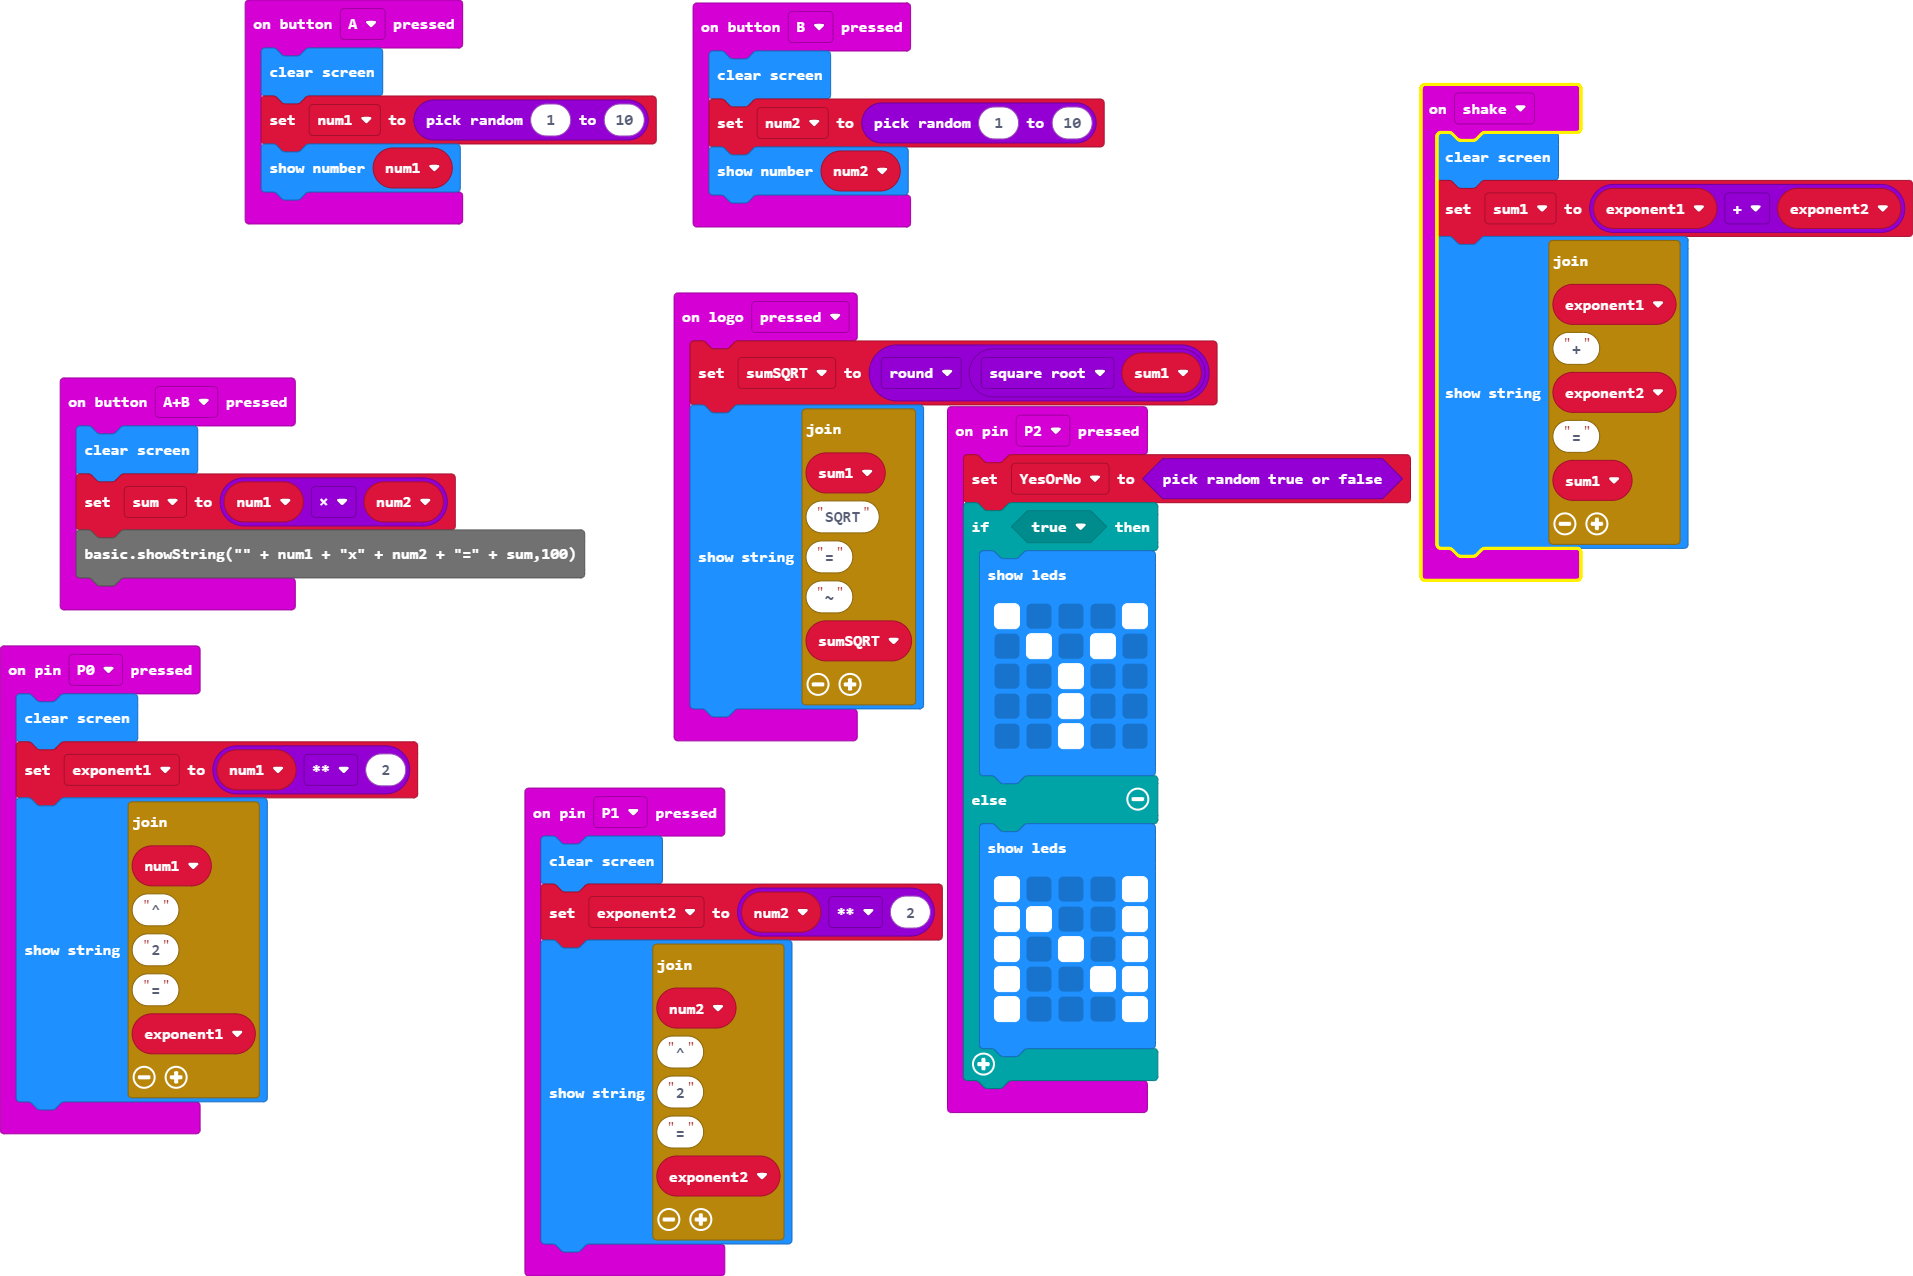
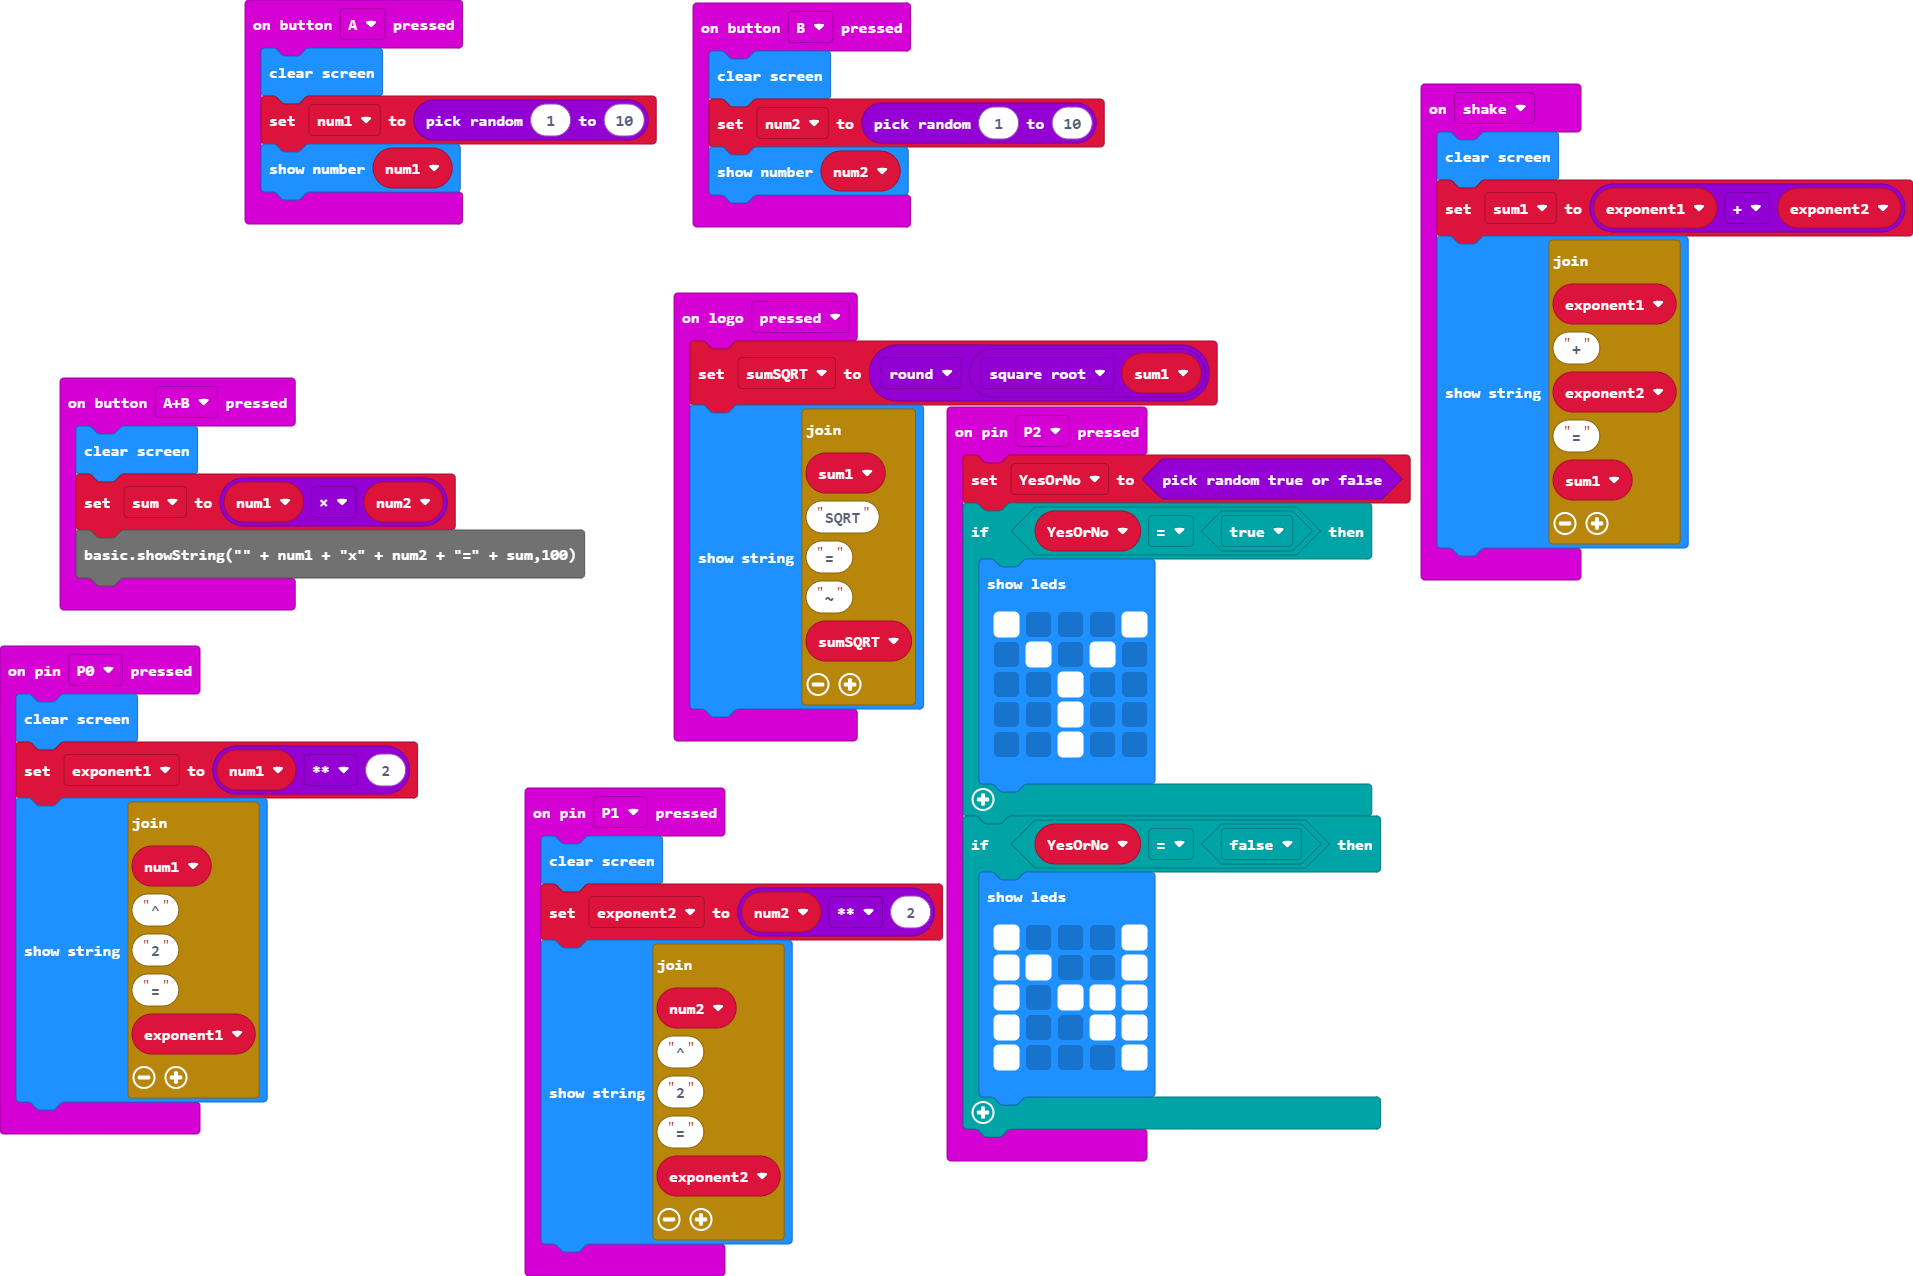
Update main.blocks, main.ts

diff --git a/main.ts b/main.ts
@@ -18,7 +18,7 @@ input.onButtonPressed(Button.A, function () {
 })
 input.onPinPressed(TouchPin.P2, function () {
     YesOrNo = Math.randomBoolean()
-    if (true) {
+    if (YesOrNo == true) {
         basic.showLeds(`
             # . . . #
             . # . # .
@@ -26,11 +26,12 @@ input.onPinPressed(TouchPin.P2, function () {
             . . # . .
             . . # . .
             `)
-    } else {
+    }
+    if (YesOrNo == false) {
         basic.showLeds(`
             # . . . #
             # # . . #
-            # . # . #
+            # . # # #
             # . . # #
             # . . . #
             `)
